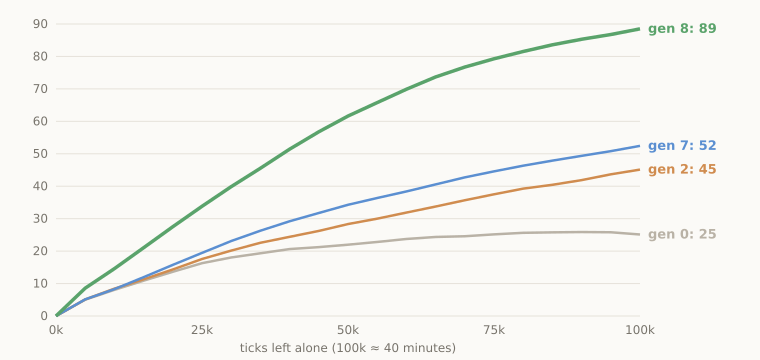
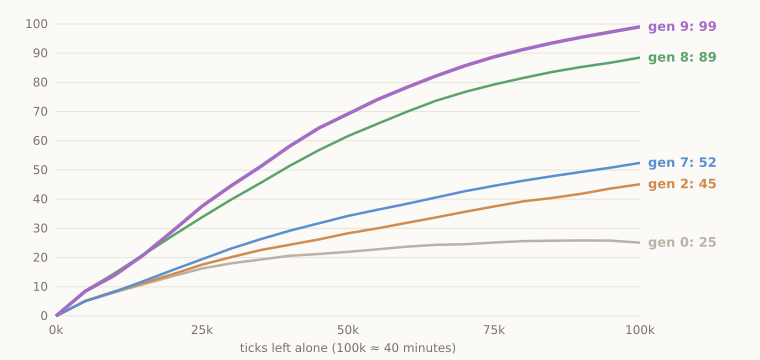
Gen 9: the long way round
Cutting wasted walking:
- Galleries only need a solid roof, not a clear column all the way to the
  sky, so the nest runs under lakes and sand
- Swimmers no longer abort their path on every ripple (the next-node check
  now forgives water like the main path check does)
- Guys join the nearest project that wants hands instead of the emptiest one;
  mine crews no longer grow past what fits in the shaft
- Wood lots get planted around every store, and the woodpile is kept fuller

Benchmark (32 worlds, 100k ticks): 55.8 / 99.0 at 40 min / worst 21.4,
up from 50.3 / 88.5 / 20.6. Experiments page updated with a Gen 9 section.

Claude-Session: https://claude.ai/code/session_012QCncmftNLcYCcRZ8MbJiX

diff --git a/quartz/components/scripts/particles/colony.ts b/quartz/components/scripts/particles/colony.ts
@@ -609,13 +609,13 @@ function think(w: World, g: Guy) {
   const cap = Math.max(6, Math.floor(w.W / 7))
   const hungry = c.projects.some((p) => !p.done && p.starved > w.tick)
   if (
-    near < Math.max(10, w.W / 14) &&
+    near < Math.max(10, w.W / 9) &&
     w.trees.length < cap &&
     w.rng.chance(hungry ? 0.8 : 0.4) &&
     startPlant(w, g)
   )
     return
-  if (c.stock[R_WOOD] < 250 && mature >= 3 && w.rng.chance(0.5) && startChop(w, g)) return
+  if (c.stock[R_WOOD] < 800 && mature >= 3 && w.rng.chance(0.6) && startChop(w, g)) return
   if (w.rng.chance(0.25) && startRelax(w, g)) return
   startWander(w, g)
 }
@@ -633,11 +633,14 @@ function assignProject(w: World, g: Guy): Project | undefined {
   for (const p of c.projects) {
     if (p.done || p.starved > w.tick) continue
     // big jobs soak up a bigger crew
-    const big = p.kind === "tower" || p.kind === "raise" || p.kind === "mine"
+    // (a mine shaft only has room for a few)
+    const big = p.kind === "tower" || p.kind === "raise"
     const room = (big ? Math.min(6, p.want + Math.floor(w.guys.length / 10)) : p.want) - p.workers
-    const dist = Math.abs(p.x - g.x) + Math.abs(p.y - g.y) * 0.5
-    const score = room * 40 - dist * 0.5 - p.fails * 3 + (p.kind === "furnish" ? -10 : 0)
     if (room <= 0 && p.workers > 0) continue
+    // the nearest job that wants hands, rather than trekking across the map for a
+    // slightly emptier one
+    const dist = Math.abs(p.x - g.x) + Math.abs(p.y - g.y) * 0.5
+    const score = Math.min(room, 3) * 10 - dist - p.fails * 3 + (p.kind === "furnish" ? -10 : 0)
     if (score <= bestScore) continue
     // no point joining if every step within sight is already being done
     if (nextStep(w, p) < 0) continue
@@ -1248,10 +1251,11 @@ function startPlant(w: World, g: Guy): boolean {
   const nav = w.nav
   nav.beginGoals()
   let any = false
-  const x0 = Math.max(3, c.homeX - 90),
-    x1 = Math.min(w.W - 4, c.homeX + 90)
-  for (let x = x0; x <= x1; x += 2) {
-    for (let y = Math.max(8, c.homeY - 40); y < Math.min(w.H - 1, c.homeY + 30); y++) {
+  // a wood lot by every store, not just at home
+  for (let x = 3; x <= w.W - 4; x += 2) {
+    if (depotDist(c, x) > 90) continue
+    const top = surfaceAt(w, x)
+    for (let y = Math.max(8, top - 3); y <= Math.min(w.H - 2, top + 1); y++) {
       if (canPlant(w, x, y, 4)) {
         nav.markGoal(x, y, y * w.W + x)
         any = true
@@ -2346,8 +2350,8 @@ function tunnelColOk(w: World, x: number, y: number): boolean {
     if (w.noBuild[k] || w.reserved[k] || BUILT_BG[w.bg[k]]) return false
     if (!SOLID[v] || BUILT[v] || DYNAMIC[v] || v === TEXT) return false
   }
-  // nothing loose or wet overhead that would pour in
-  for (let yy = 0; yy < y - GALLERY_H - 2; yy++) {
+  // nothing loose or wet just over the roof (further up, the roof holds it)
+  for (let yy = Math.max(0, y - GALLERY_H - 5); yy < y - GALLERY_H - 2; yy++) {
     const v = w.grid[yy * W + x]
     if (DYNAMIC[v] || v === WATER) return false
   }
@@ -2559,10 +2563,11 @@ function tryMine(w: World): boolean {
       if (!free(x, y)) return false
       if (y >= b - GALLERY_H + 1 && v !== EMPTY && !QUARRY[v] && !SOLID[v]) return false
       // a solid roof of natural ground (where the rock is thin, packed dirt will do)
-      if (y < b - GALLERY_H + 1 && (!SOLID[v] || BUILT[v] || v === TEXT)) return false
+      if (y < b - GALLERY_H + 1 && (!SOLID[v] || BUILT[v] || DYNAMIC[v] || v === TEXT)) return false
     }
-    // nothing loose or wet overhead that would pour in
-    for (let y = 0; y < b; y++) if (DYNAMIC[cell(x, y)]) return false
+    // nothing loose or wet just over the roof (further up, the roof holds it)
+    for (let y = Math.max(0, b - GALLERY_H - 5); y < b - GALLERY_H - 2; y++)
+      if (DYNAMIC[cell(x, y)]) return false
     return true
   }
   let best: { lx: number; s: number; b: number; L: number; R: number; score: number } | null = null

diff --git a/quartz/components/scripts/particles/guys.ts b/quartz/components/scripts/particles/guys.ts
@@ -326,10 +326,13 @@ export function moveGuy(w: World, g: Guy) {
               ? "climb"
               : "walk"
       }
-      // sanity: the world may have changed under the next node
+      // sanity: the world may have changed under the next node (but a lake's
+      // surface just ripples)
       if (g.pathI < g.path.length) {
-        const n = g.path[g.pathI]
-        if (!standable(w, n % W, Math.floor(n / W))) g.stuck = 1000
+        const nx = g.path[g.pathI] % W,
+          ny = Math.floor(g.path[g.pathI] / W)
+        const wet = g.mode === "swim" || waterAt(w, nx, ny) || waterAt(w, nx, ny + 1)
+        if (!wet && !standable(w, nx, ny)) g.stuck = 1000
       }
     }
     if (g.pathI >= g.path.length && g.mode !== "swim")

diff --git a/content/Experiments/Ant Colony.md b/content/Experiments/Ant Colony.md
@@ -24,7 +24,8 @@ The rules: anything the guys _do_ can change, but the terrain generator and the 
 | 4: stores and swimmers  |     24.7 |             44.9 |        13.3 |
 | 6: more diggers, sooner |     27.8 |             51.4 |         6.7 |
 | 7: into the hills       |     28.5 |             52.4 |    **16.2** |
-| 8: everyone pitches in  | **50.3** |         **88.5** |        20.6 |
+| 8: everyone pitches in  |     50.3 |             88.5 |        20.6 |
+| 9: the long way round   | **55.8** |         **99.0** |    **21.4** |
 
 ![[Assets/ant-colony/gen0-gen6-tablet-706844.png]]
 
@@ -82,8 +83,26 @@ _An HD world: twice the score, with the nest dug the whole way across._
 
 _A laptop world: a second village is going up on the right, over its own nest._
 
+## Gen 9: the long way round
+
+With everyone busy, the next waste was walking. A few things were sending guys the long way round:
+
+- **Lakes over the nest.** A gallery wasn't allowed anywhere with water or sand anywhere above it, even with solid ground in between, so a lake on the surface cut the nest in two. Now it only needs a solid roof, and the galleries run right under lakes.
+- **Swimmers turning back.** Every ripple on a lake made a swimming guy think the way ahead had gone, so they'd stop, rethink, swim a few strokes and stop again. Crossing a lake could take a thousand ticks.
+- **Picking the emptiest job, not the nearest.** A guy finishing up would trek across the map to a project with one more free slot, instead of joining the one next to him. Now they join the nearest job that wants hands, and mine shafts don't take more diggers than fit.
+- **Wood.** The woodpile kept running dry, so every store now gets its own wood lot planted around it.
+
+![[Assets/ant-colony/gen8-gen9-tablet-538379.png]]
+
+_A tablet world: the hill is now an ant hill, hollowed out level after level._
+
+![[Assets/ant-colony/gen8-gen9-phone-538379.png]]
+
+_A phone world: from a couple of towers to a village over two levels of nest._
+
 ## Little things fixed along the way
 
+- Swimmers stopped and turned around every time a ripple passed under the next stroke.
 - An abandoned mine kept its place on the to-do list, and its ground, forever, so that world never tried another one.
 - Stuck builds: a guy who couldn't reach the next step of a build never gave up on it, so whole projects stood still for good. One phone world planned the same unreachable tower 13 times.
 - Swimmers flickered between swimming and falling as ripples passed under them, sometimes bobbed in place for thousands of ticks, and couldn't swim across lakes to fetch wood. A swimmer trapped in a pit never asked for rescue.
@@ -94,6 +113,6 @@ _A laptop world: a second village is going up on the right, over its own nest._
 
 ## Still to do
 
-- Wood is now the bottleneck: the woodpile runs dry while stone piles up by the tonne.
+- Stone piles up by the tonne with not much to spend it on.
 - Phones are the weakest screens: there's barely any flat ground to dig a mine from.
 - Guys still walk far more than they work.
